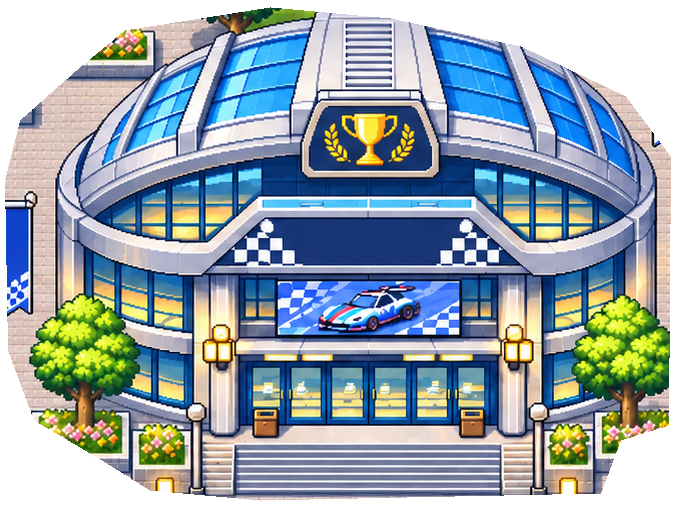
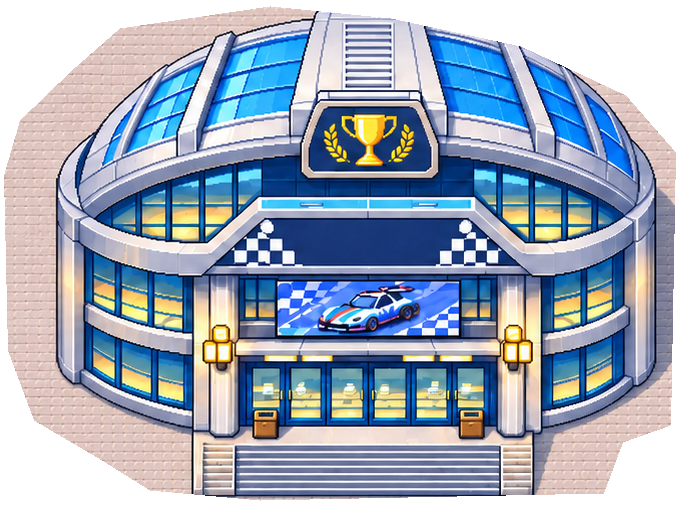
Remove plaza decorations around landmark buildings

diff --git a/src/game/TownArt.ts b/src/game/TownArt.ts
@@ -7,14 +7,11 @@ import {SceneryPen} from './SceneryCanvas';
 /** One raster pixel covers two map units; repeating vector detail avoids full-size terrain canvases. */
 export const townGroundRasterScale=.5;
 export const townCivicArtworkKey='town-civic-plaza-art';
-const civicScale=townCivicPlaza.width/1683;
-const civicExtensionWidth=400*civicScale;
-function inCivicArtwork(x:number,y:number){return x>=townCivicPlaza.x&&x<=townCivicPlaza.x+townCivicPlaza.width+civicExtensionWidth&&y>=townCivicPlaza.y&&y<=townCivicPlaza.y+townCivicPlaza.height;}
+const civicScale=townCivicPlaza.width/2083;
+function inCivicArtwork(x:number,y:number){return x>=townCivicPlaza.x&&x<=townCivicPlaza.x+townCivicPlaza.width&&y>=townCivicPlaza.y&&y<=townCivicPlaza.y+townCivicPlaza.height;}
 function drawCivicArtwork(scene:Phaser.Scene){
  const source=scene.textures.get(townCivicArtworkKey);source.setFilter(Phaser.Textures.FilterMode.NEAREST);
  scene.add.image(townCivicPlaza.x,townCivicPlaza.y,townCivicArtworkKey).setOrigin(0).setDisplaySize(townCivicPlaza.width,townCivicPlaza.height).setDepth(-90);
- scene.add.image(townCivicPlaza.x+townCivicPlaza.width,townCivicPlaza.y,'civic-plaza-extension').setOrigin(0).setDisplaySize(civicExtensionWidth,townCivicPlaza.height).setDepth(-90);
- scene.textures.get('civic-plaza-extension').setFilter(Phaser.Textures.FilterMode.NEAREST);
  const stadium=townVenues.find(v=>v.id==='stadium-5')!,shop=townVenues.find(v=>v.id==='komorebi')!;
  const arena=scene.add.image(townCivicPlaza.x+90*civicScale,townCivicPlaza.y+50*civicScale,'civic-arena-occlusion').setOrigin(0).setDisplaySize(660*civicScale,520*civicScale).setDepth(stadium.y+stadium.h+12);
  const storefront=scene.add.image(townCivicPlaza.x+780*civicScale,townCivicPlaza.y+60*civicScale,'civic-shop-occlusion').setOrigin(0).setDisplaySize(390*civicScale,390*civicScale).setDepth(shop.y+shop.h+12);

diff --git a/src/game/ShopScene.ts b/src/game/ShopScene.ts
@@ -98,7 +98,7 @@ export class ShopScene extends Phaser.Scene {
   private challengerSolid:Phaser.Geom.Rectangle|null=null;
   private get cast(){return shopCast(currentShop(useGame.getState().location).id);}
   constructor(){ super('shop'); }
-  preload(){const id=useGame.getState().location,image=sceneryImage(id);if(image)this.load.image(sceneryKey(id),image);if(id==='town')for(const [key,path] of [[townCivicArtworkKey,'/assets/town-civic-plaza.webp'],['civic-plaza-extension','/assets/civic-plaza-extension.webp'],['civic-arena-occlusion','/assets/civic-arena-occlusion.webp'],['civic-shop-occlusion','/assets/civic-shop-occlusion.webp']] as const)if(!this.textures.exists(key))this.load.image(key,path);}
+  preload(){const id=useGame.getState().location,image=sceneryImage(id);if(image)this.load.image(sceneryKey(id),image);if(id==='town')for(const [key,path] of [[townCivicArtworkKey,'/assets/town-civic-plaza.webp'],['civic-arena-occlusion','/assets/civic-arena-occlusion.webp'],['civic-shop-occlusion','/assets/civic-shop-occlusion.webp']] as const)if(!this.textures.exists(key))this.load.image(key,path);}
   create(){
     this.eventAudio=new EventAudio();
     const unlockAudio=()=>{if(useAudioSettings.getState().enabled)this.eventAudio.unlock();};

diff --git a/src/data/world.ts b/src/data/world.ts
@@ -52,7 +52,7 @@ export const townWalkBounds={left:64,right:6880,top:96,bottom:4536};
 export const townRoads={vertical:[400,1200,2000,2800,3600,4400],horizontal:[420,1100,1780,2460,3140,3820,4480]};
 export const townPlaza={x:2050,y:1840,w:700,h:500};
 /** Bounds of the reference-matched civic plaza illustration in town world units. */
-export const townCivicPlaza={x:2800,y:1688,width:1280,height:711};
+export const townCivicPlaza={x:2800,y:1688,width:1584,height:711};
 export function generateTownVenues(seed=19890421):TownVenue[]{
   let state=seed>>>0;const random=()=>{state=(Math.imul(state,1664525)+1013904223)>>>0;return state/4294967296;};
   const fixed:TownVenue[]=[...venueTemplates,
